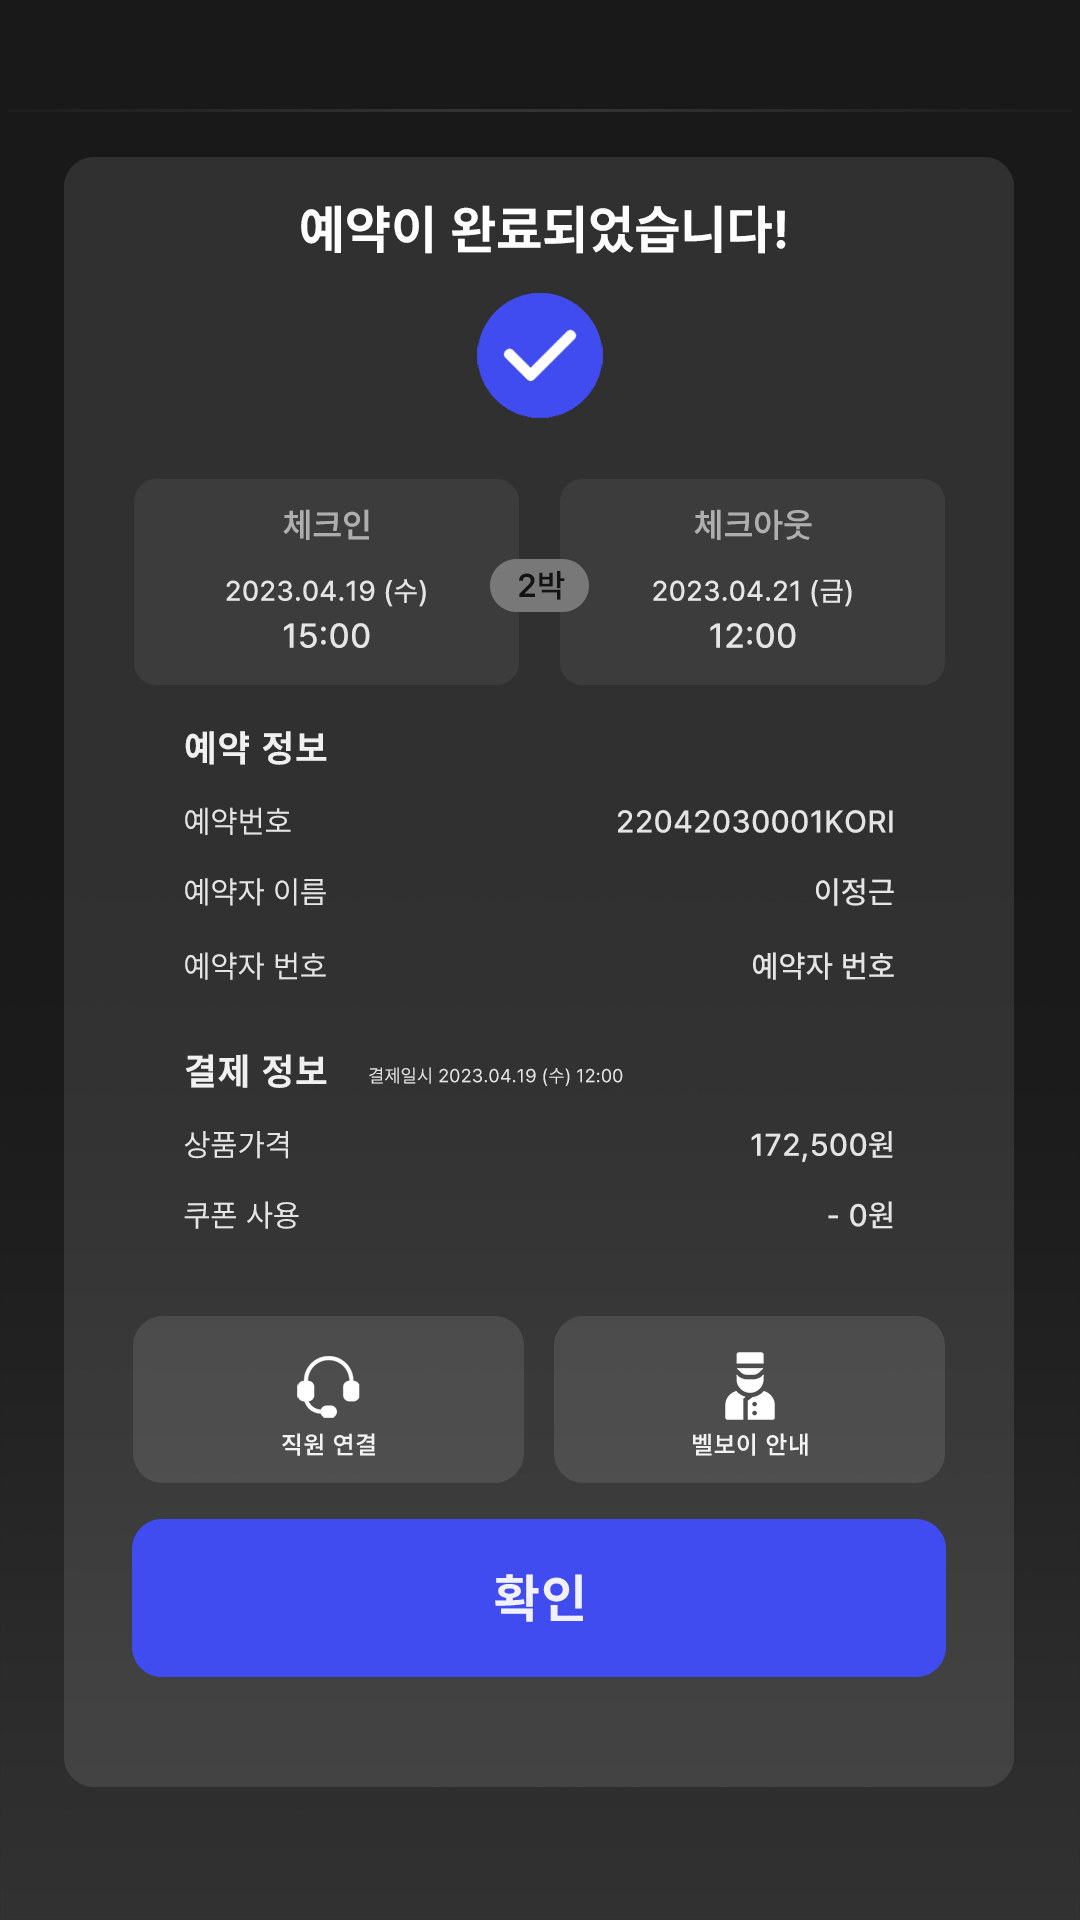
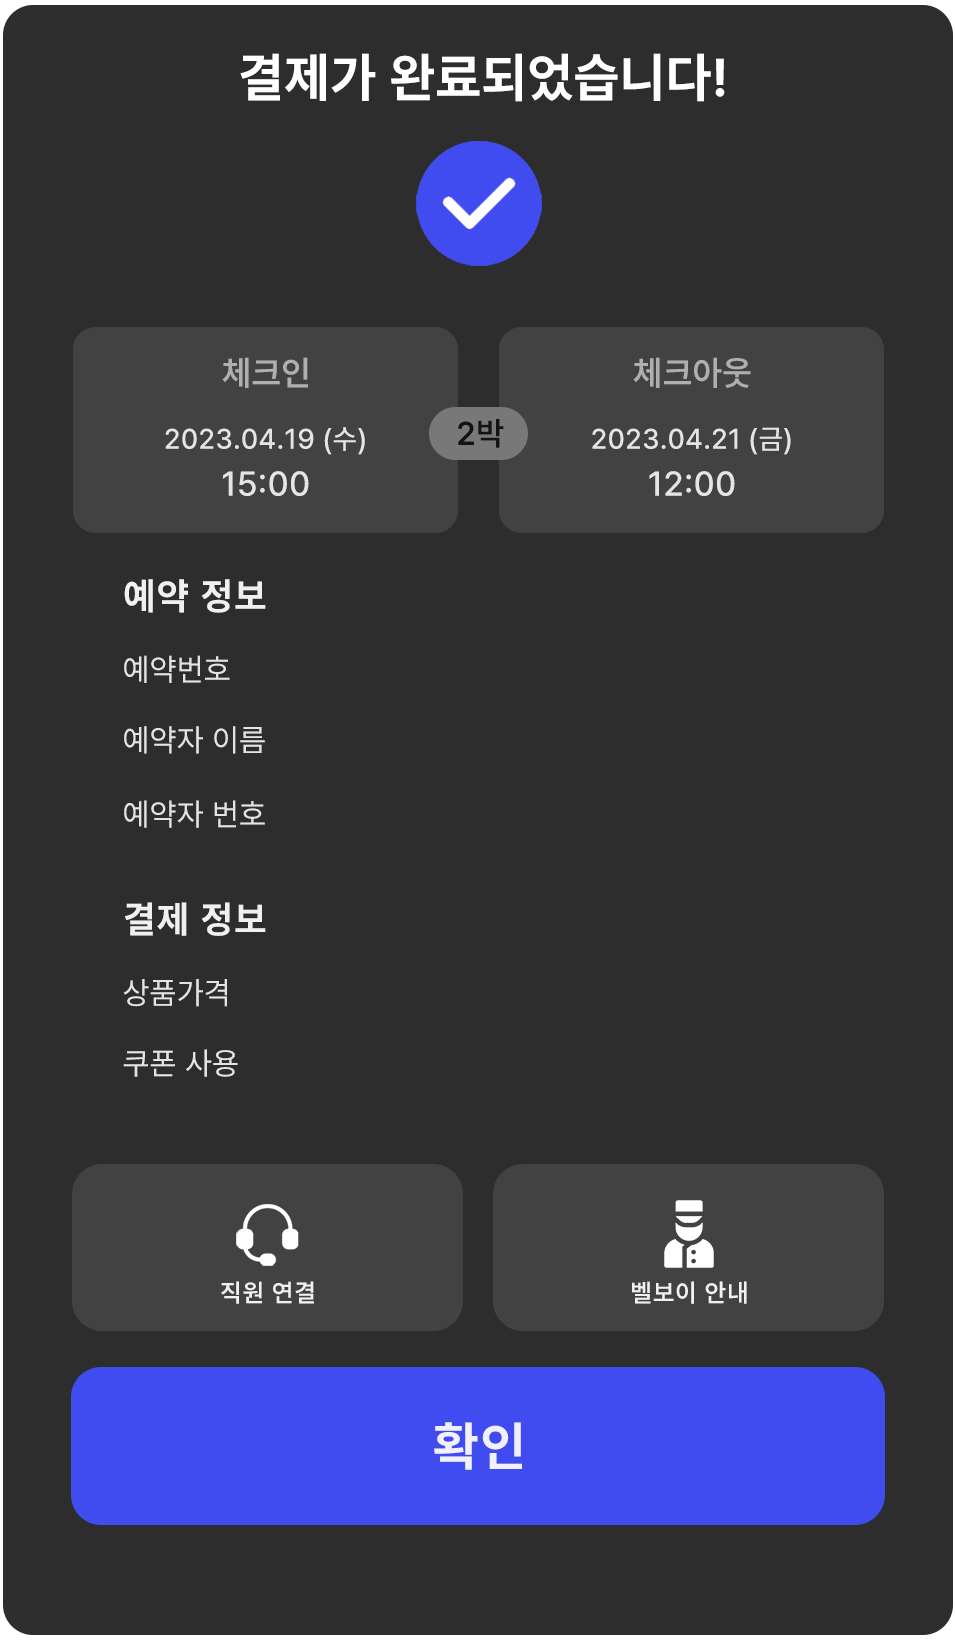
결제 정보 창 및 영수증 수정 적용

diff --git a/lib/Screens/Services/Hotel/HotelServiceRoomReceipt.dart b/lib/Screens/Services/Hotel/HotelServiceRoomReceipt.dart
@@ -1,9 +1,11 @@
 import 'package:flutter/material.dart';
+import 'package:kori_wis_demo/Providers/OrderModel.dart';
 import 'package:kori_wis_demo/Screens/MainScreenFinal.dart';
 import 'package:kori_wis_demo/Screens/ServiceScreenFinal.dart';
 import 'package:kori_wis_demo/Utills/navScreens.dart';
 import 'package:kori_wis_demo/Widgets/HotelModuleButtonsFinal.dart';
 import 'package:kori_wis_demo/Widgets/MenuButtons.dart';
+import 'package:provider/provider.dart';
 
 // ------------------------------ 보류 ---------------------------------------
 
@@ -15,12 +17,22 @@ class HotelRoomReceipt extends StatefulWidget {
 }
 
 class _HotelRoomReceiptState extends State<HotelRoomReceipt> {
+  late OrderModel _orderProvider;
 
   String backgroundImage = "assets/screens/Hotel/koriZFInalPaymentDone.png";
 
+  late String paymentDate;
+
+  @override
+  void initState() {
+    // TODO: implement initState
+    super.initState();
+    paymentDate = "2023.04.19 (수) 12:00"; // 추후 달력 연계
+  }
+
   @override
   Widget build(BuildContext context) {
-
+    _orderProvider = Provider.of<OrderModel>(context, listen: false);
     double screenWidth = MediaQuery.of(context).size.width;
     double screenHeight = MediaQuery.of(context).size.height;
 
@@ -98,6 +110,141 @@ class _HotelRoomReceiptState extends State<HotelRoomReceipt> {
                   image: AssetImage(backgroundImage), fit: BoxFit.cover)),
           child: Stack(
             children: [
+              //예약번호
+              Positioned(
+                top: 755,
+                left: 600,
+                child: Container(
+                  height: 50,
+                  width: 400,
+                  decoration: const BoxDecoration(
+                    // border: Border.fromBorderSide(BorderSide(color: Colors.red, width: 1)),
+                      borderRadius: BorderRadius.all(Radius.circular(0))),
+                  child: Row(
+                    mainAxisAlignment: MainAxisAlignment.end,
+                    children: [
+                      Text(_orderProvider.roomReserveNum!, style: TextStyle(
+                        fontFamily: 'kor',
+                        fontSize: 35,
+                        fontWeight: FontWeight.bold
+                      ),),
+                    ],
+                  )
+                ),
+              ),
+              //예약자 정보
+              //이름
+              Positioned(
+                top: 835,
+                left: 600,
+                child: Container(
+                    height: 50,
+                    width: 400,
+                    decoration: const BoxDecoration(
+                        // border: Border.fromBorderSide(BorderSide(color: Colors.red, width: 1)),
+                        borderRadius: BorderRadius.all(Radius.circular(0))),
+                    child: Row(
+                      mainAxisAlignment: MainAxisAlignment.end,
+                      children: [
+                        Text(_orderProvider.roomReserveName!, style: TextStyle(
+                            fontFamily: 'kor',
+                            fontSize: 35,
+                            fontWeight: FontWeight.bold
+                        ),),
+                      ],
+                    )
+                ),
+              ),
+              //연락처
+              Positioned(
+                top: 925,
+                left: 600,
+                child: Container(
+                    height: 50,
+                    width: 400,
+                    decoration: const BoxDecoration(
+                        // border: Border.fromBorderSide(BorderSide(color: Colors.red, width: 1)),
+                        borderRadius: BorderRadius.all(Radius.circular(0))),
+                    child: Row(
+                      mainAxisAlignment: MainAxisAlignment.end,
+                      children: [
+                        Text(_orderProvider.roomReserveContact!, style: TextStyle(
+                            fontFamily: 'kor',
+                            fontSize: 35,
+                            fontWeight: FontWeight.bold
+                        ),),
+                      ],
+                    )
+                ),
+              ),
+              //결제정보
+              //결제일
+              Positioned(
+                top: 1055,
+                left: 350,
+                child: Container(
+                    height: 50,
+                    width: 500,
+                    decoration: const BoxDecoration(
+                        // border: Border.fromBorderSide(BorderSide(color: Colors.red, width: 1)),
+                        borderRadius: BorderRadius.all(Radius.circular(0))),
+                    child: Row(
+                      mainAxisAlignment: MainAxisAlignment.start,
+                      children: [
+                        Text('결제일시 $paymentDate', style: TextStyle(
+                            fontFamily: 'kor',
+                            fontSize: 20,
+                            fontWeight: FontWeight.bold,
+                          color: Color(0xff797979)
+                        ),),
+                      ],
+                    )
+                ),
+              ),
+              //가격
+              Positioned(
+                top: 1132,
+                left: 600,
+                child: Container(
+                    height: 50,
+                    width: 400,
+                    decoration: const BoxDecoration(
+                        // border: Border.fromBorderSide(BorderSide(color: Colors.red, width: 1)),
+                        borderRadius: BorderRadius.all(Radius.circular(0))),
+                    child: Row(
+                      mainAxisAlignment: MainAxisAlignment.end,
+                      children: [
+                        Text('${_orderProvider.orderedRoomPrice!} 원', style: TextStyle(
+                            fontFamily: 'kor',
+                            fontSize: 35,
+                            fontWeight: FontWeight.bold
+                        ),),
+                      ],
+                    )
+                ),
+              ),
+              //할인가격
+              Positioned(
+                top: 1215,
+                left: 600,
+                child: Container(
+                    height: 50,
+                    width: 400,
+                    decoration: const BoxDecoration(
+                        // border: Border.fromBorderSide(BorderSide(color: Colors.red, width: 1)),
+                        borderRadius: BorderRadius.all(Radius.circular(0))),
+                    child: Row(
+                      mainAxisAlignment: MainAxisAlignment.end,
+                      children: [
+                        Text('- ${_orderProvider.roomReserveDiscount!} 원', style: TextStyle(
+                            fontFamily: 'kor',
+                            fontSize: 35,
+                            fontWeight: FontWeight.bold
+                        ),),
+                      ],
+                    )
+                ),
+              ),
               HotelModuleButtonsFinal(screens: 3,)
             ],
           ),

diff --git a/lib/Modals/OrderModules/PaymentModalFinal.dart b/lib/Modals/OrderModules/PaymentModalFinal.dart
@@ -81,75 +81,54 @@ class _PaymentScreenFinalState extends State<PaymentScreenFinal> {
                       child: null,
                     ),
                   )),
-              _networkProvider.serviceState == 1
-                  ? Stack(children: [
-                      Positioned(
-                          left: 370,
-                          top: 315.5,
-                          child: Container(
-                            width: 230,
-                            height: 65,
-                            color: Colors.transparent,
-                            child: Row(
-                              mainAxisAlignment: MainAxisAlignment.center,
-                              children: [
-                                Text(
-                                  '${_orderProvider.orderedTotalPrice}',
-                                  style: TextStyle(
-                                    fontFamily: 'kor',
-                                    fontSize: 53,
-                                    fontWeight: FontWeight.bold,
-                                    color: Color(0xffffffff),
-                                  ),
-                                ),
-                              ],
+              Stack(children: [
+                Positioned(
+                    left: 370,
+                    top: 315.5,
+                    child: Container(
+                      width: 230,
+                      height: 65,
+                      color: Colors.transparent,
+                      child: Row(
+                        mainAxisAlignment: MainAxisAlignment.center,
+                        children: [
+                          Text(
+                            _networkProvider.serviceState == 1
+                                ? '${_orderProvider.orderedTotalPrice}'
+                                : '${_orderProvider.orderedRoomPrice}',
+                            style: TextStyle(
+                              fontFamily: 'kor',
+                              fontSize: 53,
+                              fontWeight: FontWeight.bold,
+                              color: Color(0xffffffff),
                             ),
-                          )),
-                      Positioned(
-                          left: 600,
-                          top: 315.5,
-                          child: Container(
-                            width: 55,
-                            height: 65,
-                            color: Colors.transparent,
-                            child: Row(
-                              mainAxisAlignment: MainAxisAlignment.end,
-                              children: [
-                                Text(
-                                  '원',
-                                  style: TextStyle(
-                                    fontFamily: 'kor',
-                                    fontSize: 53,
-                                    fontWeight: FontWeight.bold,
-                                    color: Color(0xffffffff),
-                                  ),
-                                ),
-                              ],
+                          ),
+                        ],
+                      ),
+                    )),
+                Positioned(
+                    left: 600,
+                    top: 315.5,
+                    child: Container(
+                      width: 55,
+                      height: 65,
+                      color: Colors.transparent,
+                      child: Row(
+                        mainAxisAlignment: MainAxisAlignment.end,
+                        children: [
+                          Text(
+                            '원',
+                            style: TextStyle(
+                              fontFamily: 'kor',
+                              fontSize: 53,
+                              fontWeight: FontWeight.bold,
+                              color: Color(0xffffffff),
                             ),
-                          )),
-                    ])
-                  : _networkProvider.serviceState == 2
-                      ? Positioned(
-                          left: 375,
-                          top: 315.5,
-                          child: Container(
-                            width: 300,
-                            height: 65,
-                            // color: Colors.transparent,
-                            decoration: BoxDecoration(
-                                border: Border.fromBorderSide(
-                                    BorderSide(color: Colors.white, width: 1))),
-                            child: Text(
-                              '172,500 원',
-                              style: TextStyle(
-                                fontFamily: 'kor',
-                                fontSize: 53,
-                                fontWeight: FontWeight.bold,
-                                color: Color(0xffffffff),
-                              ),
-                            ),
-                          ))
-                      : Container(),
+                          ),
+                        ],
+                      ),
+                    )),
+              ]),
               OrderModuleButtonsFinal(
                 screens: 2,
               )

diff --git a/lib/Modals/OrderModules/NFCModalFinal.dart b/lib/Modals/OrderModules/NFCModalFinal.dart
@@ -1,6 +1,7 @@
 import 'package:flutter/material.dart';
 import 'package:kori_wis_demo/Modals/ServingModules/ServingOrderReceiptModal.dart';
 import 'package:kori_wis_demo/Providers/NetworkModel.dart';
+import 'package:kori_wis_demo/Providers/OrderModel.dart';
 import 'package:kori_wis_demo/Screens/Services/Hotel/HotelServiceRoomReceipt.dart';
 import 'package:kori_wis_demo/Utills/navScreens.dart';
 import 'package:provider/provider.dart';
@@ -13,6 +14,7 @@ class NFCModuleScreenFinal extends StatefulWidget {
 }
 
 class _NFCModuleScreenFinalState extends State<NFCModuleScreenFinal> {
+  late OrderModel _orderProvider;
   void showServingReceiptPopup(context) {
     showDialog(
         barrierDismissible: false,
@@ -28,6 +30,7 @@ class _NFCModuleScreenFinalState extends State<NFCModuleScreenFinal> {
   @override
   Widget build(BuildContext context) {
     _networkProvider = Provider.of<NetworkModel>(context, listen: false);
+    _orderProvider = Provider.of<OrderModel>(context, listen: false);
 
     return GestureDetector(
       onTap: () {
@@ -40,6 +43,10 @@ class _NFCModuleScreenFinalState extends State<NFCModuleScreenFinal> {
         } else if (_networkProvider.serviceState == 2) {
           navPage(context: context, page: HotelRoomReceipt(), enablePop: false)
               .navPageToPage();
+          _orderProvider.roomReserveNum = '22042030001KORI';
+          _orderProvider.roomReserveContact = '010-0000-0000';
+          _orderProvider.roomReserveName = '이정근';
+          _orderProvider.roomReserveDiscount = '0';
         }
       },
       child: Container(

diff --git a/lib/Screens/Services/Hotel/HotelServiceRoomInfoNCartFinal.dart b/lib/Screens/Services/Hotel/HotelServiceRoomInfoNCartFinal.dart
@@ -1,9 +1,11 @@
 import 'package:card_swiper/card_swiper.dart';
 import 'package:flutter/material.dart';
 import 'package:intl/intl.dart';
+import 'package:kori_wis_demo/Providers/OrderModel.dart';
 import 'package:kori_wis_demo/Screens/MainScreenFinal.dart';
 import 'package:kori_wis_demo/Utills/navScreens.dart';
 import 'package:kori_wis_demo/Widgets/HotelModuleButtonsFinal.dart';
+import 'package:provider/provider.dart';
 import 'package:table_calendar/table_calendar.dart';
 
 // ------------------------------ 보류 ---------------------------------------
@@ -17,6 +19,7 @@ class HotelRoomInfoNCart extends StatefulWidget {
 }
 
 class _HotelRoomInfoNCartState extends State<HotelRoomInfoNCart> {
+  late OrderModel _orderProvider;
   static const String backgroundImage =
       "assets/screens/Hotel/koriZFinalCart.png";
 
@@ -125,7 +128,10 @@ class _HotelRoomInfoNCartState extends State<HotelRoomInfoNCart> {
 
   @override
   Widget build(BuildContext context) {
+    _orderProvider = Provider.of<OrderModel>(context, listen: false);
     print(roomInfo);
+
+    _orderProvider.orderedRoomPrice = roomInfo[1];
 
     double screenWidth = MediaQuery.of(context).size.width;
     double screenHeight = MediaQuery.of(context).size.height;

diff --git a/lib/Providers/OrderModel.dart b/lib/Providers/OrderModel.dart
@@ -12,6 +12,11 @@ class OrderModel with ChangeNotifier {
   int? orderedChickenPrice;
 
   int? orderedTotalPrice;
+  String? orderedRoomPrice;
+  String? roomReserveNum;
+  String? roomReserveName;
+  String? roomReserveContact;
+  String? roomReserveDiscount;
 
   int? orderedHamburgerQT;
   int? orderedRamyeonQT;
